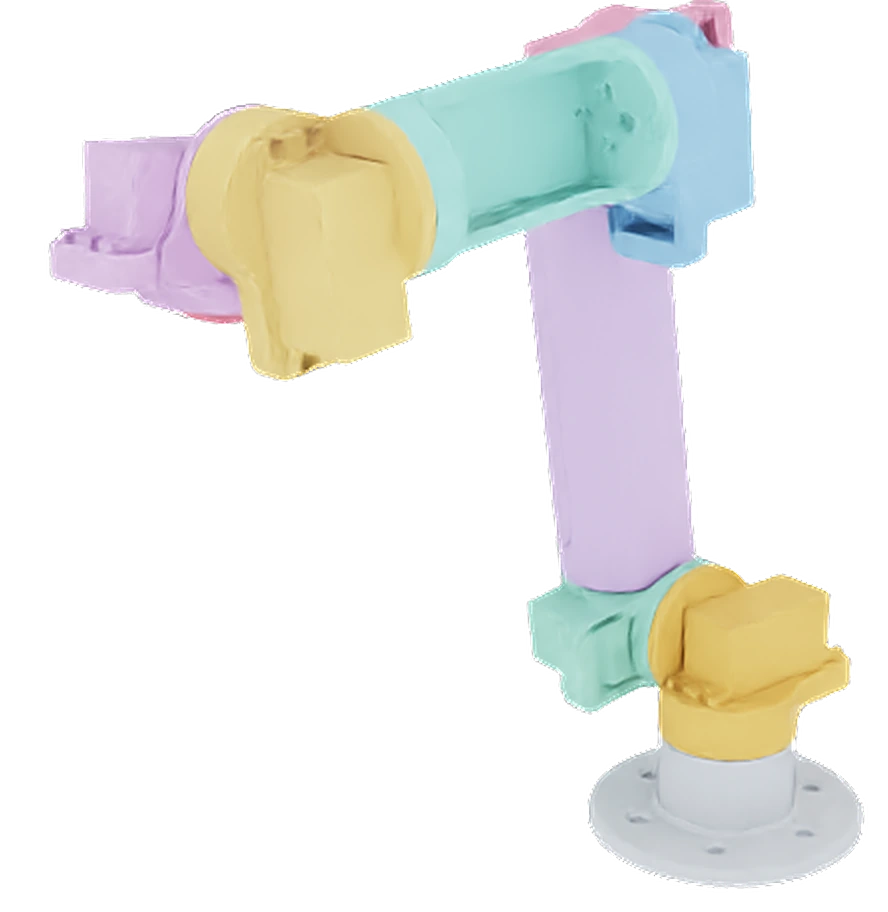
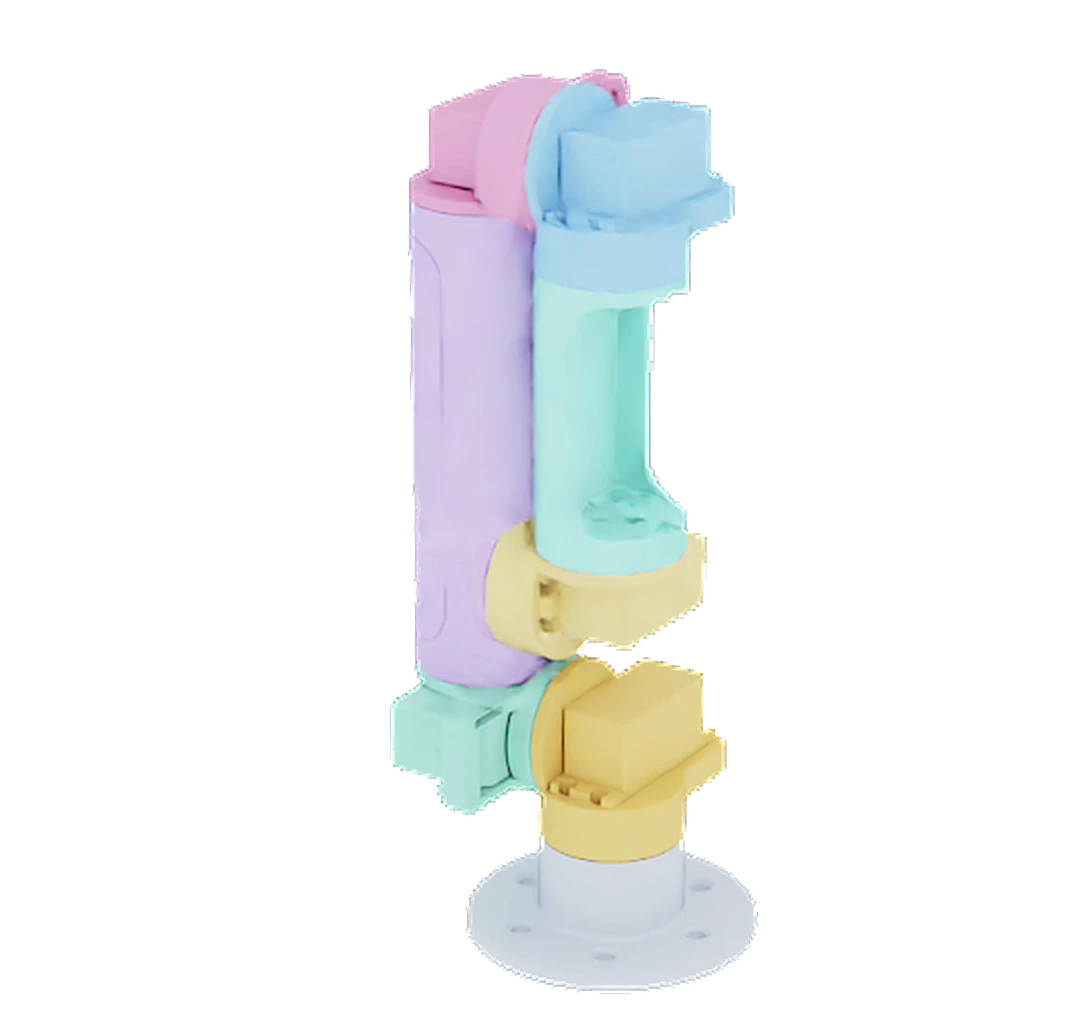
Show the LARA joint sweep with distinct poses and an animation; tag Isaac Sim

diff --git a/src/pages/ProjectPage.tsx b/src/pages/ProjectPage.tsx
@@ -32,7 +32,7 @@ export function ProjectPage() {
       </section>
       <section className="project-detail-section"><p className="eyebrow">01 / UNDER THE HOOD</p><h2>Engineering notes</h2><NotesList className="engineering-notes">{project.notes.map(note => <li key={note}>{note}</li>)}</NotesList></section>
       {!!project.gallery?.length && <section className="project-detail-section"><p className="eyebrow">02 / ON THE BENCH</p><h2>From the workshop</h2><div className="project-gallery">{project.gallery.map(image => <figure key={image.src}><img src={mediaUrl(image.src)} alt={image.alt} loading="lazy" {...imageDimensions(image.src)}/><figcaption>{image.caption}</figcaption></figure>)}</div></section>}
-      {project.simulation && <section className="project-detail-section"><p className="eyebrow">03 / IN SIMULATION</p><h2>Rehearsed in software</h2><p className="simulation-intro">{project.simulation.intro}</p><div className="simulation-gallery">{project.simulation.frames.map((frame, index) => <figure key={frame.src}><div className="simulation-frame"><span className="simulation-index mono">POSE {String(index + 1).padStart(2, '0')}</span><img src={mediaUrl(frame.src)} alt={frame.alt} loading="lazy" {...imageDimensions(frame.src)}/></div><figcaption>{frame.caption}</figcaption></figure>)}</div></section>}
+      {project.simulation && <section className="project-detail-section"><p className="eyebrow">03 / IN SIMULATION</p><h2>Rehearsed in software</h2><p className="simulation-intro">{project.simulation.intro}</p>{project.simulation.animation && <figure className="simulation-motion"><div className="simulation-frame"><span className="simulation-index mono">JOINT SWEEP</span><img src={mediaUrl(project.simulation.animation.src)} alt={project.simulation.animation.alt} {...imageDimensions(project.simulation.animation.src)}/></div><figcaption>{project.simulation.animation.caption}</figcaption></figure>}<div className="simulation-gallery">{project.simulation.frames.map((frame, index) => <figure key={frame.src}><div className="simulation-frame"><span className="simulation-index mono">POSE {String(index + 1).padStart(2, '0')}</span><img src={mediaUrl(frame.src)} alt={frame.alt} loading="lazy" {...imageDimensions(frame.src)}/></div><figcaption>{frame.caption}</figcaption></figure>)}</div></section>}
       {project.analysisFigures?.map(figure => (
         <figure className="analysis-figure" key={figure.src}>
           <img src={mediaUrl(figure.src)} alt={figure.alt} loading="lazy" {...imageDimensions(figure.src)}/>

diff --git a/src/styles.css b/src/styles.css
@@ -344,7 +344,9 @@ h2 { font-size: clamp(26px, 2.7vw, 36px); line-height: 1.3; letter-spacing: -1.2
 .simulation-frame { position: relative; border: 1px solid var(--line); background-color: var(--deck); background-image: radial-gradient(#e9dbb02d .65px,transparent .65px); background-size: 18px 18px; }
 .simulation-frame img { width: 100%; height: auto; max-height: 560px; object-fit: contain; padding: 22px 18px 14px; }
 .simulation-index { position: absolute; top: 10px; left: 12px; color: #f0e5ca; font-size: 9px; }
-.simulation-gallery figcaption { font-family: var(--mono); font-size: 13.5px; line-height: 1.8; color: #616f50; padding-top: 12px; }
+.simulation-motion { margin-bottom: 28px; }
+.simulation-motion .simulation-frame img { width: auto; max-width: 100%; max-height: 620px; margin-inline: auto; padding: 0; }
+.simulation-gallery figcaption, .simulation-motion figcaption { font-family: var(--mono); font-size: 13.5px; line-height: 1.8; color: #616f50; padding-top: 12px; }
 .analysis-figure > img { width: 100%; height: auto; }
 .analysis-figure figcaption { background: var(--paper); }
 .source-excerpt { border: 1px solid #b8c2a4; margin-top: 18px; padding: 18px 22px; background: #f8f6eb; min-width: 0; }

diff --git a/src/data/types.ts b/src/data/types.ts
@@ -25,7 +25,7 @@ export interface Project {
   icon?: string;
   gallery?: { src: string; alt: string; caption: string }[];
   analysisFigures?: { src: string; alt: string; caption: string }[];
-  simulation?: { intro: string; frames: { src: string; alt: string; caption: string }[] };
+  simulation?: { intro: string; animation?: { src: string; alt: string; caption: string }; frames: { src: string; alt: string; caption: string }[] };
   contributorIds: string[];
   notes: string[];
   specs: { label: string; value: string }[];

diff --git a/src/dark-theme.css b/src/dark-theme.css
@@ -125,7 +125,7 @@ button,
 .component-panel dd,
 .project-margin-note p,
 .project-gallery figcaption, .analysis-figure figcaption,
-.simulation-gallery figcaption, .simulation-index,
+.simulation-gallery figcaption, .simulation-motion figcaption, .simulation-index,
 .source-excerpt > summary > span,
 .markdown,
 .markdown h2, .markdown h3, .markdown h4,

diff --git a/scripts/prepare-image-metadata.py b/scripts/prepare-image-metadata.py
@@ -17,7 +17,7 @@ for project in lab['projects']:
     for field in ['logo', 'introductionImage']:
         if project.get(field):
             sources.add(project[field]['src'])
-    for image in [*project.get('gallery', []), *project.get('analysisFigures', []), *project.get('simulation', {}).get('frames', [])]:
+    for image in [*project.get('gallery', []), *project.get('analysisFigures', []), *project.get('simulation', {}).get('frames', []), *([project['simulation']['animation']] if project.get('simulation', {}).get('animation') else [])]:
         sources.add(image['src'])
 for file in (root / 'content/news').glob('*.json'):
     post = json.loads(file.read_text())
